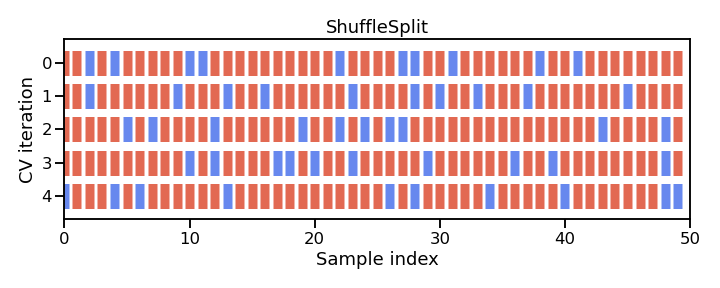
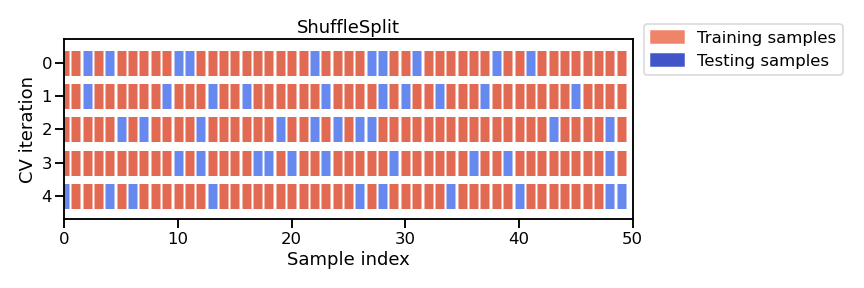
Improve format

diff --git a/figures/plot_cross_validation_diagram.py b/figures/plot_cross_validation_diagram.py
@@ -1,8 +1,8 @@
+import matplotlib.pyplot as plt
+import numpy as np
+from matplotlib.patches import Patch
 from pathlib import Path
 from sklearn.model_selection import KFold, ShuffleSplit
-import matplotlib.pyplot as plt
-from matplotlib.patches import Patch
-import numpy as np
 
 
 FIGURES_FOLDER = Path(__file__).parent
@@ -45,9 +45,11 @@ def plot_cv_indices(cv, X, y, ax, lw=50):
         ylim=[n_splits + 0.2, -0.2],
         xlim=[0, 50],
     )
-    ax.legend([Patch(color=cmap_cv(.8)), Patch(color=cmap_cv(.02))],
-            ['Training samples', 'Testing samples'], loc=(1.02, .8)
-            )
+    ax.legend(
+        [Patch(color=cmap_cv(0.8)), Patch(color=cmap_cv(0.02))],
+        ["Training samples", "Testing samples"],
+        loc=(1.02, 0.8),
+    )
     ax.set_title("{}".format(type(cv).__name__))
     return ax
 
